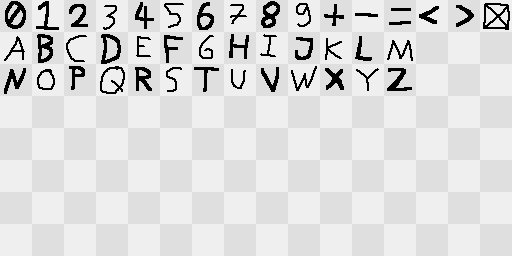
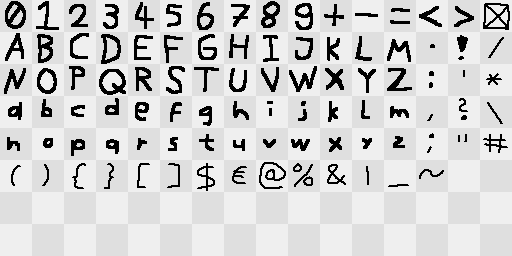
new Texture Atlas now has most ASCII characters

diff --git a/src/UI/Text/Manager.cpp b/src/UI/Text/Manager.cpp
@@ -21,11 +21,11 @@ UI::Text::Manager::Manager(const DirectoryContext & shader_dir, const DirectoryC
 	std::cout << "  ++++  " << "UI::Text::Manager::Manager()" << '\n';
 
 	TextFont = Font::Parse(text_dir.File("Font0.atlas"));
-	std::cout << "Font" << ' ' << "Default" << ' ' << (TextFont -> DefaultCharacter.Box.Min) << ' ' << (TextFont -> DefaultCharacter.Box.Max) << '\n';
-	for (unsigned int i = 0; i < TextFont -> Characters.Count(); i++)
+	//std::cout << "Font" << ' ' << "Default" << ' ' << (TextFont -> DefaultCharacter.Box.Min) << ' ' << (TextFont -> DefaultCharacter.Box.Max) << '\n';
+	/*for (unsigned int i = 0; i < TextFont -> Characters.Count(); i++)
 	{
 		std::cout << "Font" << ' ' << (TextFont -> Characters[i].Code) << ' ' << (TextFont -> Characters[i].Box.Min) << ' ' << (TextFont -> Characters[i].Box.Max) << '\n';
-	}
+	}*/
 	Pallet_Texture = new Texture::T2DArray(TextFont -> AtlasTexture);
 
 	//Image * img = image_dir.File("Text_16x8_32x32.png").LoadImagePNG();

diff --git a/src/UI/Control/TextBox.cpp b/src/UI/Control/TextBox.cpp
@@ -139,7 +139,7 @@ void UI::Control::TextBox::RelayText(UserParameter::KeyBoard::Text params)
 {
 	if (!Enabled || !Visible || !Drawable || ReadOnly) { return; }
 
-	if (
+	/*if (
 		(params.Codepoint >= '0' && params.Codepoint <= '9') ||
 		(params.Codepoint >= 'A' && params.Codepoint <= 'Z') ||
 		(params.Codepoint >= 'a' && params.Codepoint <= 'z') ||
@@ -147,7 +147,7 @@ void UI::Control::TextBox::RelayText(UserParameter::KeyBoard::Text params)
 		params.Codepoint == '/' ||
 		params.Codepoint == '=' || params.Codepoint == '<' || params.Codepoint == '>' ||
 		params.Codepoint == ' '
-		)
+		)*/
 	{
 		Text += (char)params.Codepoint;
 		TextChanged = true;

diff --git a/src/UI/Text/Font/Parsing.cpp b/src/UI/Text/Font/Parsing.cpp
@@ -63,16 +63,11 @@ void UI::Text::Font::ParsingData::Parse_Character(const ParsingCommand & cmd)
 
 	Point2D pos(cmd.ToFloat(1), cmd.ToFloat(2));
 	Point2D size(cmd.ToFloat(3), cmd.ToFloat(4));
+
 	if (cmd.ToString(0) == "Default")
-	{
-		std::cout << "Char Default\n";
-		Temp -> Change_DefaultCharacter(pos, size);
-	}
+	{ Temp -> Change_DefaultCharacter(pos, size); }
 	else
-	{
-		std::cout << "Char " << cmd.ToInt32(0) << '\n';
-		Temp -> Insert_Character(cmd.ToUInt32(0), pos, size);
-	}
+	{ Temp -> Insert_Character(cmd.ToUInt32(0), pos, size); }
 }
 
 
